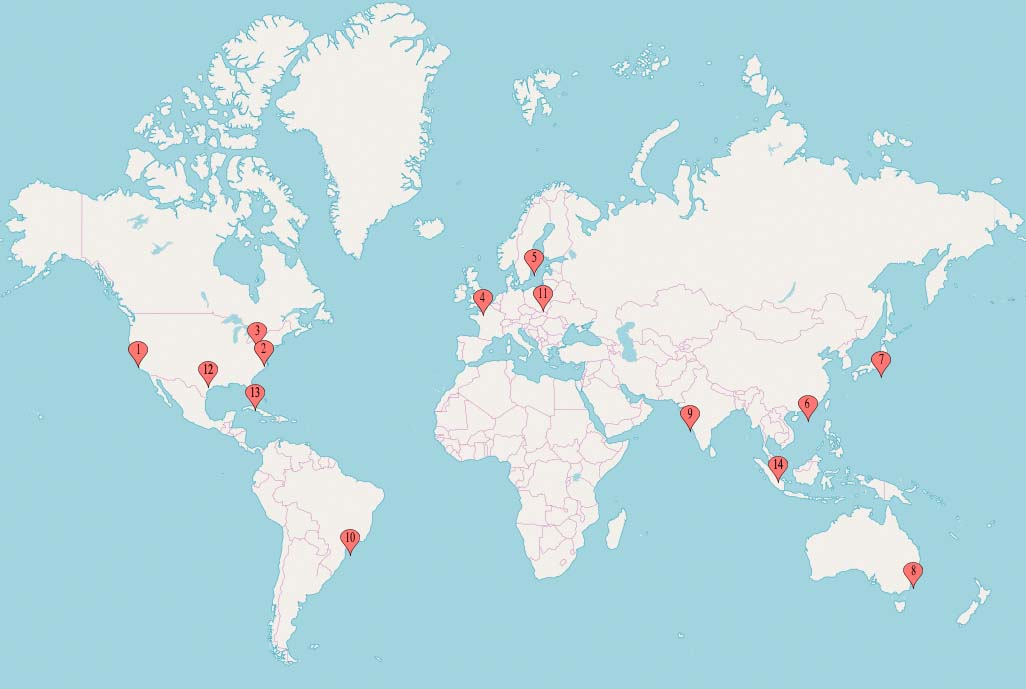
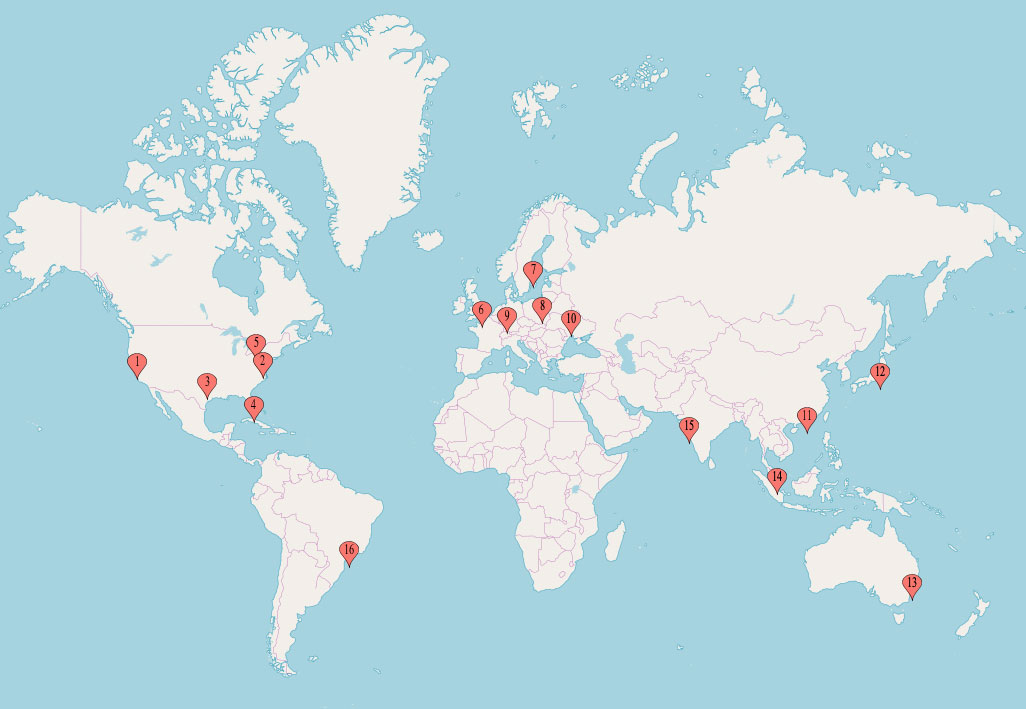
Updated readme with 2 new endpoints

diff --git a/js/shift8_cdn_admin.js b/js/shift8_cdn_admin.js
@@ -15,6 +15,7 @@ jQuery(document).ready(function() {
         	},
         	success:function(data) {
             	// This outputs the result of the ajax request
+                console.log(JSON.stringify(data));
                 if (data != null) {
                 	jQuery('#shift8_cdn_api_field').val(data.apikey);
                 	jQuery('#shift8_cdn_prefix_field').val(data.cdnprefix);

diff --git a/README.md b/README.md
@@ -30,10 +30,8 @@ Fill out the survey here : [Shift8 CDN Survey](https://www.surveymonkey.com/r/ZH
 
 New endpoints added :
 
-- Warsaw, Poland
-- Singapore
-- Dallas, TX, USA
-- Miami, FL, USA
+- Frankfurt, Germany
+- Ukraine
 
 ## Free Content Delivery Network for your Static Content 
 
@@ -49,12 +47,14 @@ Current endpoints in use (more added regularly) :
 6. Europe - London, England
 7. Europe - Stockholm, Sweden
 8. Europe - Warsaw, Poland
-9. Asia Pacific - Hong Kong, China
-10. Asia Pacific - Tokyo, Japan
-11. Asia Pacific - Sydney, Australia
-12. Asia Pacific - Singapore
-13. Asia Pacific - Mumbai, India
-14. Latin America - Sao Paulo, Brazil
+9. Europe - Frankfurt, Germany
+10. Europe - Ukraine
+11. Asia Pacific - Hong Kong, China
+12. Asia Pacific - Tokyo, Japan
+13. Asia Pacific - Sydney, Australia
+14. Asia Pacific - Singapore
+15. Asia Pacific - Mumbai, India
+16. Latin America - Sao Paulo, Brazil
 
 You can learn more about how the CDN was setup and how it works by reading our [blog post](https://www.shift8web.ca/2019/05/how-we-created-our-own-free-content-delivery-network-for-wordpress-users/).
 
